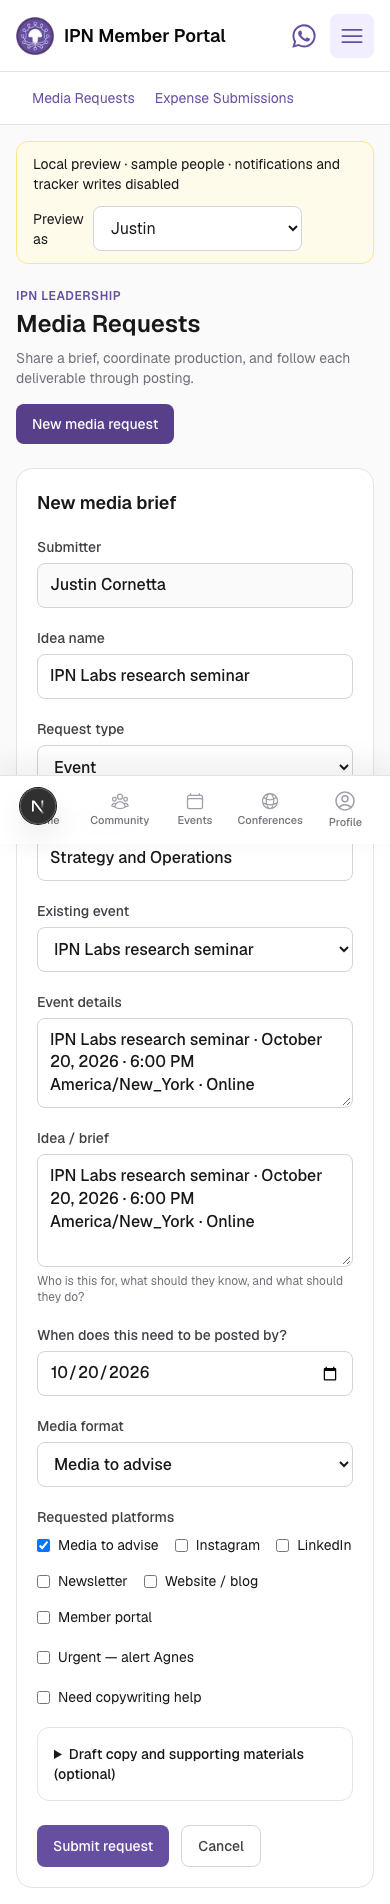
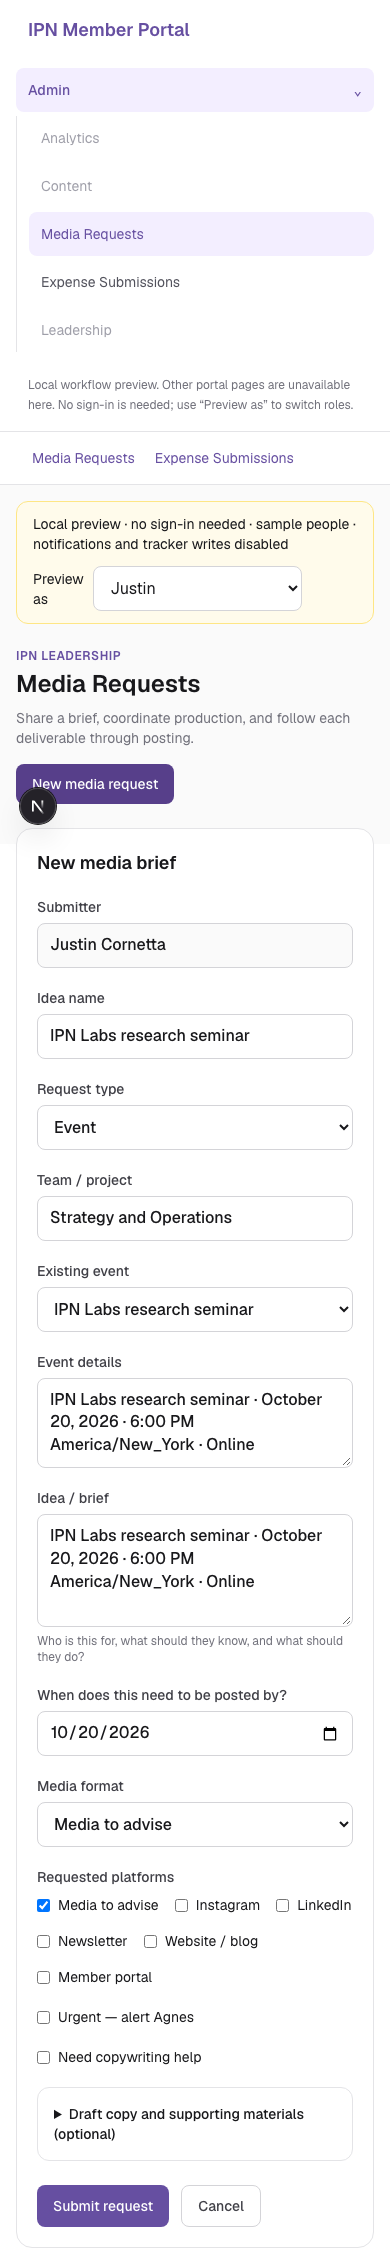
fix local workflow preview navigation to avoid disconnected sign-in

diff --git a/src/components/admin/AdminMenu.tsx b/src/components/admin/AdminMenu.tsx
@@ -1,9 +1,17 @@
 "use client"
 import Link from "next/link"
 import { usePathname } from "next/navigation"
-export default function AdminMenu({ onClose }: { onClose?: () => void }) {
+export default function AdminMenu({
+  onClose,
+  preview = false
+}: {
+  onClose?: () => void
+  preview?: boolean
+}) {
   const pathname = usePathname()
-  const active = pathname.startsWith("/dashboard/admin")
+  const active =
+    pathname.startsWith("/dashboard/admin") ||
+    (preview && pathname.startsWith("/workflow-preview/"))
   return (
     <details open={active} className="rounded-lg">
       <summary
@@ -19,16 +27,36 @@ export default function AdminMenu({ onClose }: { onClose?: () => void }) {
           { label: "Media Requests", href: "/dashboard/admin/media" },
           { label: "Expense Submissions", href: "/dashboard/admin/expenses" },
           { label: "Leadership", href: "/dashboard/admin?tab=leadership" }
-        ].map((link) => (
-          <Link
-            key={link.label}
-            href={link.href}
-            onClick={onClose}
-            className={`min-h-11 rounded-lg px-3 py-3 text-sm ${pathname === link.href ? "bg-ipn-light text-ipn" : "text-zinc-600 hover:bg-zinc-50"}`}
-          >
-            {link.label}
-          </Link>
-        ))}
+        ].map((link) => {
+          const previewHref =
+            link.label === "Media Requests"
+              ? "/workflow-preview/media"
+              : link.label === "Expense Submissions"
+                ? "/workflow-preview/expenses"
+                : null
+          if (preview && !previewHref)
+            return (
+              <span
+                key={link.label}
+                aria-disabled="true"
+                title="Unavailable in the local workflow preview"
+                className="min-h-11 rounded-lg px-3 py-3 text-sm text-zinc-400"
+              >
+                {link.label}
+              </span>
+            )
+          const href = preview ? (previewHref ?? link.href) : link.href
+          return (
+            <Link
+              key={link.label}
+              href={href}
+              onClick={onClose}
+              className={`min-h-11 rounded-lg px-3 py-3 text-sm ${pathname === href ? "bg-ipn-light text-ipn" : "text-zinc-600 hover:bg-zinc-50"}`}
+            >
+              {link.label}
+            </Link>
+          )
+        })}
       </div>
     </details>
   )

diff --git a/src/app/workflow-preview/[kind]/page.tsx b/src/app/workflow-preview/[kind]/page.tsx
@@ -2,7 +2,7 @@ import { headers } from "next/headers"
 import { notFound } from "next/navigation"
 import Link from "next/link"
 import WorkflowWorkspace from "@/components/leadership-workflows/WorkflowWorkspace"
-import Sidebar from "@/components/Sidebar"
+import AdminMenu from "@/components/admin/AdminMenu"
 export default async function Page({
   params
 }: {
@@ -19,14 +19,18 @@ export default async function Page({
     notFound()
   return (
     <div className="flex min-h-screen flex-col bg-zinc-50 md:flex-row">
-      <Sidebar
-        firstName="Justin"
-        lastName="Cornetta"
-        email="justin@example.test"
-        avatarUrl={null}
-        pendingRequestCount={0}
-        isAdmin
-      />
+      <aside className="border-b border-zinc-200 bg-white p-4 md:w-60 md:shrink-0 md:border-b-0 md:border-r">
+        <p className="mb-6 px-3 text-lg font-semibold text-ipn">
+          IPN Member Portal
+        </p>
+        <nav aria-label="Preview admin navigation">
+          <AdminMenu preview />
+        </nav>
+        <p className="mt-6 px-3 text-xs leading-relaxed text-zinc-500">
+          Local workflow preview. Other portal pages are unavailable here.
+          No sign-in is needed; use “Preview as” to switch roles.
+        </p>
+      </aside>
       <div className="min-w-0 flex-1">
         <nav className="flex gap-5 border-b border-zinc-200 bg-white px-8 py-4 text-sm">
           <Link className="text-ipn" href="/workflow-preview/media">

diff --git a/qa/leadership/workflows.spec.ts b/qa/leadership/workflows.spec.ts
@@ -132,14 +132,14 @@ test("general media request, shared assignment, review and posted deliverable", 
   page
 }) => {
   await page.goto("/workflow-preview/media")
-  await page.locator("summary").filter({ hasText: "Admin" }).click()
-  await expect(
-    page.getByRole("link", { name: "Analytics", exact: true })
-  ).toHaveAttribute("href", "/dashboard/admin?tab=analytics")
-  await expect(
-    page.getByRole("link", { name: "Content", exact: true })
-  ).toHaveAttribute("href", "/dashboard/admin?tab=content")
-  await page.locator("summary").filter({ hasText: "Admin" }).click()
+  const previewNav = page.getByRole("navigation", { name: "Preview admin navigation" })
+  await expect(previewNav.getByText("Analytics", { exact: true })).toHaveAttribute("aria-disabled", "true")
+  await expect(previewNav.getByText("Content", { exact: true })).toHaveAttribute("aria-disabled", "true")
+  await expect(page.locator('a[href^="/dashboard"], a[href^="/login"]')).toHaveCount(0)
+  await previewNav.getByRole("link", { name: "Expense Submissions", exact: true }).click()
+  await expect(page).toHaveURL(/\/workflow-preview\/expenses$/)
+  await previewNav.getByRole("link", { name: "Media Requests", exact: true }).click()
+  await expect(page).toHaveURL(/\/workflow-preview\/media$/)
   await page
     .getByRole("button", { name: "New media request", exact: true })
     .click()

diff --git a/src/components/leadership-workflows/WorkflowWorkspace.tsx b/src/components/leadership-workflows/WorkflowWorkspace.tsx
@@ -230,7 +230,7 @@ export default function WorkflowWorkspace({
       {demo && (
         <div className="flex flex-wrap items-center justify-between gap-3 rounded-xl border border-amber-200 bg-amber-50 px-4 py-3 text-sm">
           <span>
-            Local preview · sample people · notifications and tracker writes
+            Local preview · no sign-in needed · sample people · notifications and tracker writes
             disabled
           </span>
           <label className="flex items-center gap-2">

diff --git a/docs/leadership-workflows/README.md b/docs/leadership-workflows/README.md
@@ -60,7 +60,7 @@ Only actual movements after a checkpoint date change its account balance, so alr
 
 `npm ci`, `npm run qa:install`, `npm run lint`, `npm run build`, `node --test --experimental-strip-types tests/leadership-workflows.test.mjs`, `npm run qa:local`.
 
-The local preview binds only to localhost, requires the explicit development flag, and is unavailable in production. Start with `npm run workflow:dev`, then visit `http://127.0.0.1:4327/workflow-preview/media` or `/workflow-preview/expenses`. It uses sample people and writes only ignored local JSON. Runtime Slack/Sheets deliveries are disabled.
+The local preview binds only to localhost, requires the explicit development flag, and is unavailable in production. Start with `npm run workflow:dev`, then visit `http://127.0.0.1:4327/workflow-preview/media` or `/workflow-preview/expenses`. It uses sample people and writes only ignored local JSON. No sign-in is needed: use “Preview as” to switch roles. Preview navigation stays within these two workflows; other Admin tabs are disabled because real authentication is intentionally disconnected. Runtime Slack/Sheets deliveries are disabled.
 
 Browser QA covers submit/approve/purchase/receipt, expense privacy and preapproved reimbursement, complete media production/review/publication, mobile event prefill, authentication redirects, CSRF, unauthorized approval, stale revisions and invalid Slack signatures. Database tests apply the actual migration in PGlite and check RLS, server-only mutation access, audit/outbox atomicity and the shared sheet lease. Live Slack delivery and deployed service-account sync remain untested until credentials are configured.
 
